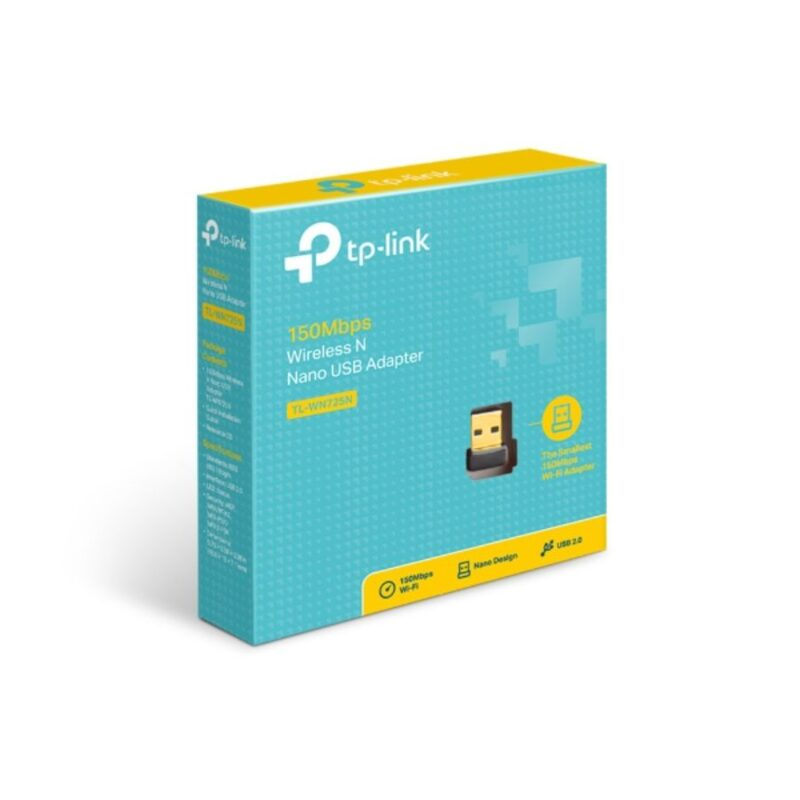
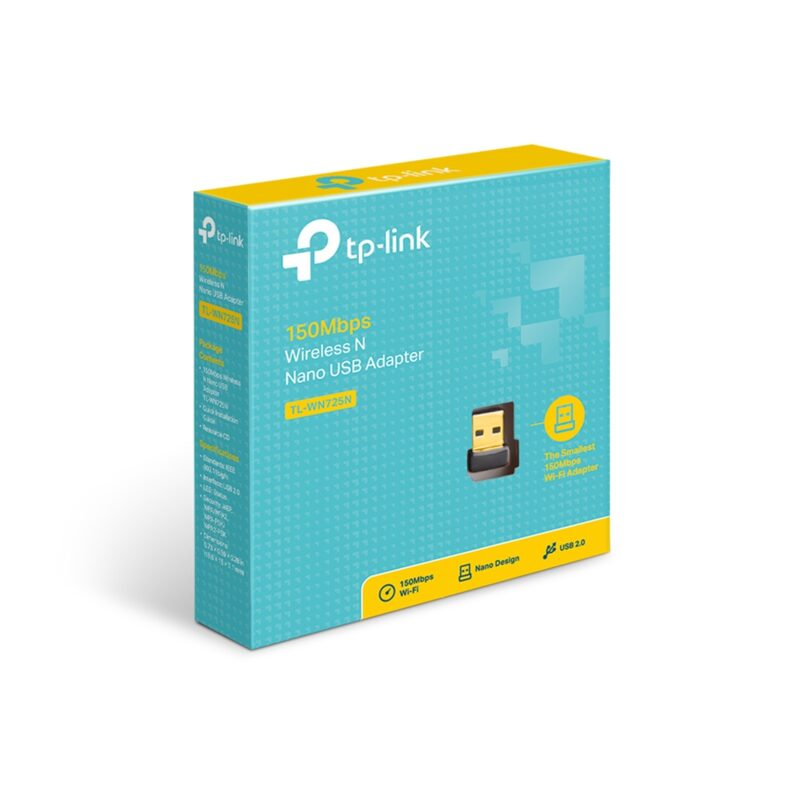
Actualizar catálogo (2026-11-06 19:28)

Changed region(s): [[0.2188, 0.1562, 0.7812, 0.8125]]

diff --git a/productos.js b/productos.js
@@ -529,7 +529,7 @@ window.CATALOGO = {
    "nombre": "Receptor inalámbrico WiFi 2.4GHZ 150Mbps",
    "precio": 22000,
    "descripcion": "Receptor inalámbrico WiFi 2.GHZ 150Mbps",
-   "imagen": "img/tl-wn725n.jpg?v=61e5ac9e"
+   "imagen": "img/tl-wn725n.jpg?v=ded430ee"
   },
   {
    "id": "ARCHER T3U NANO",
